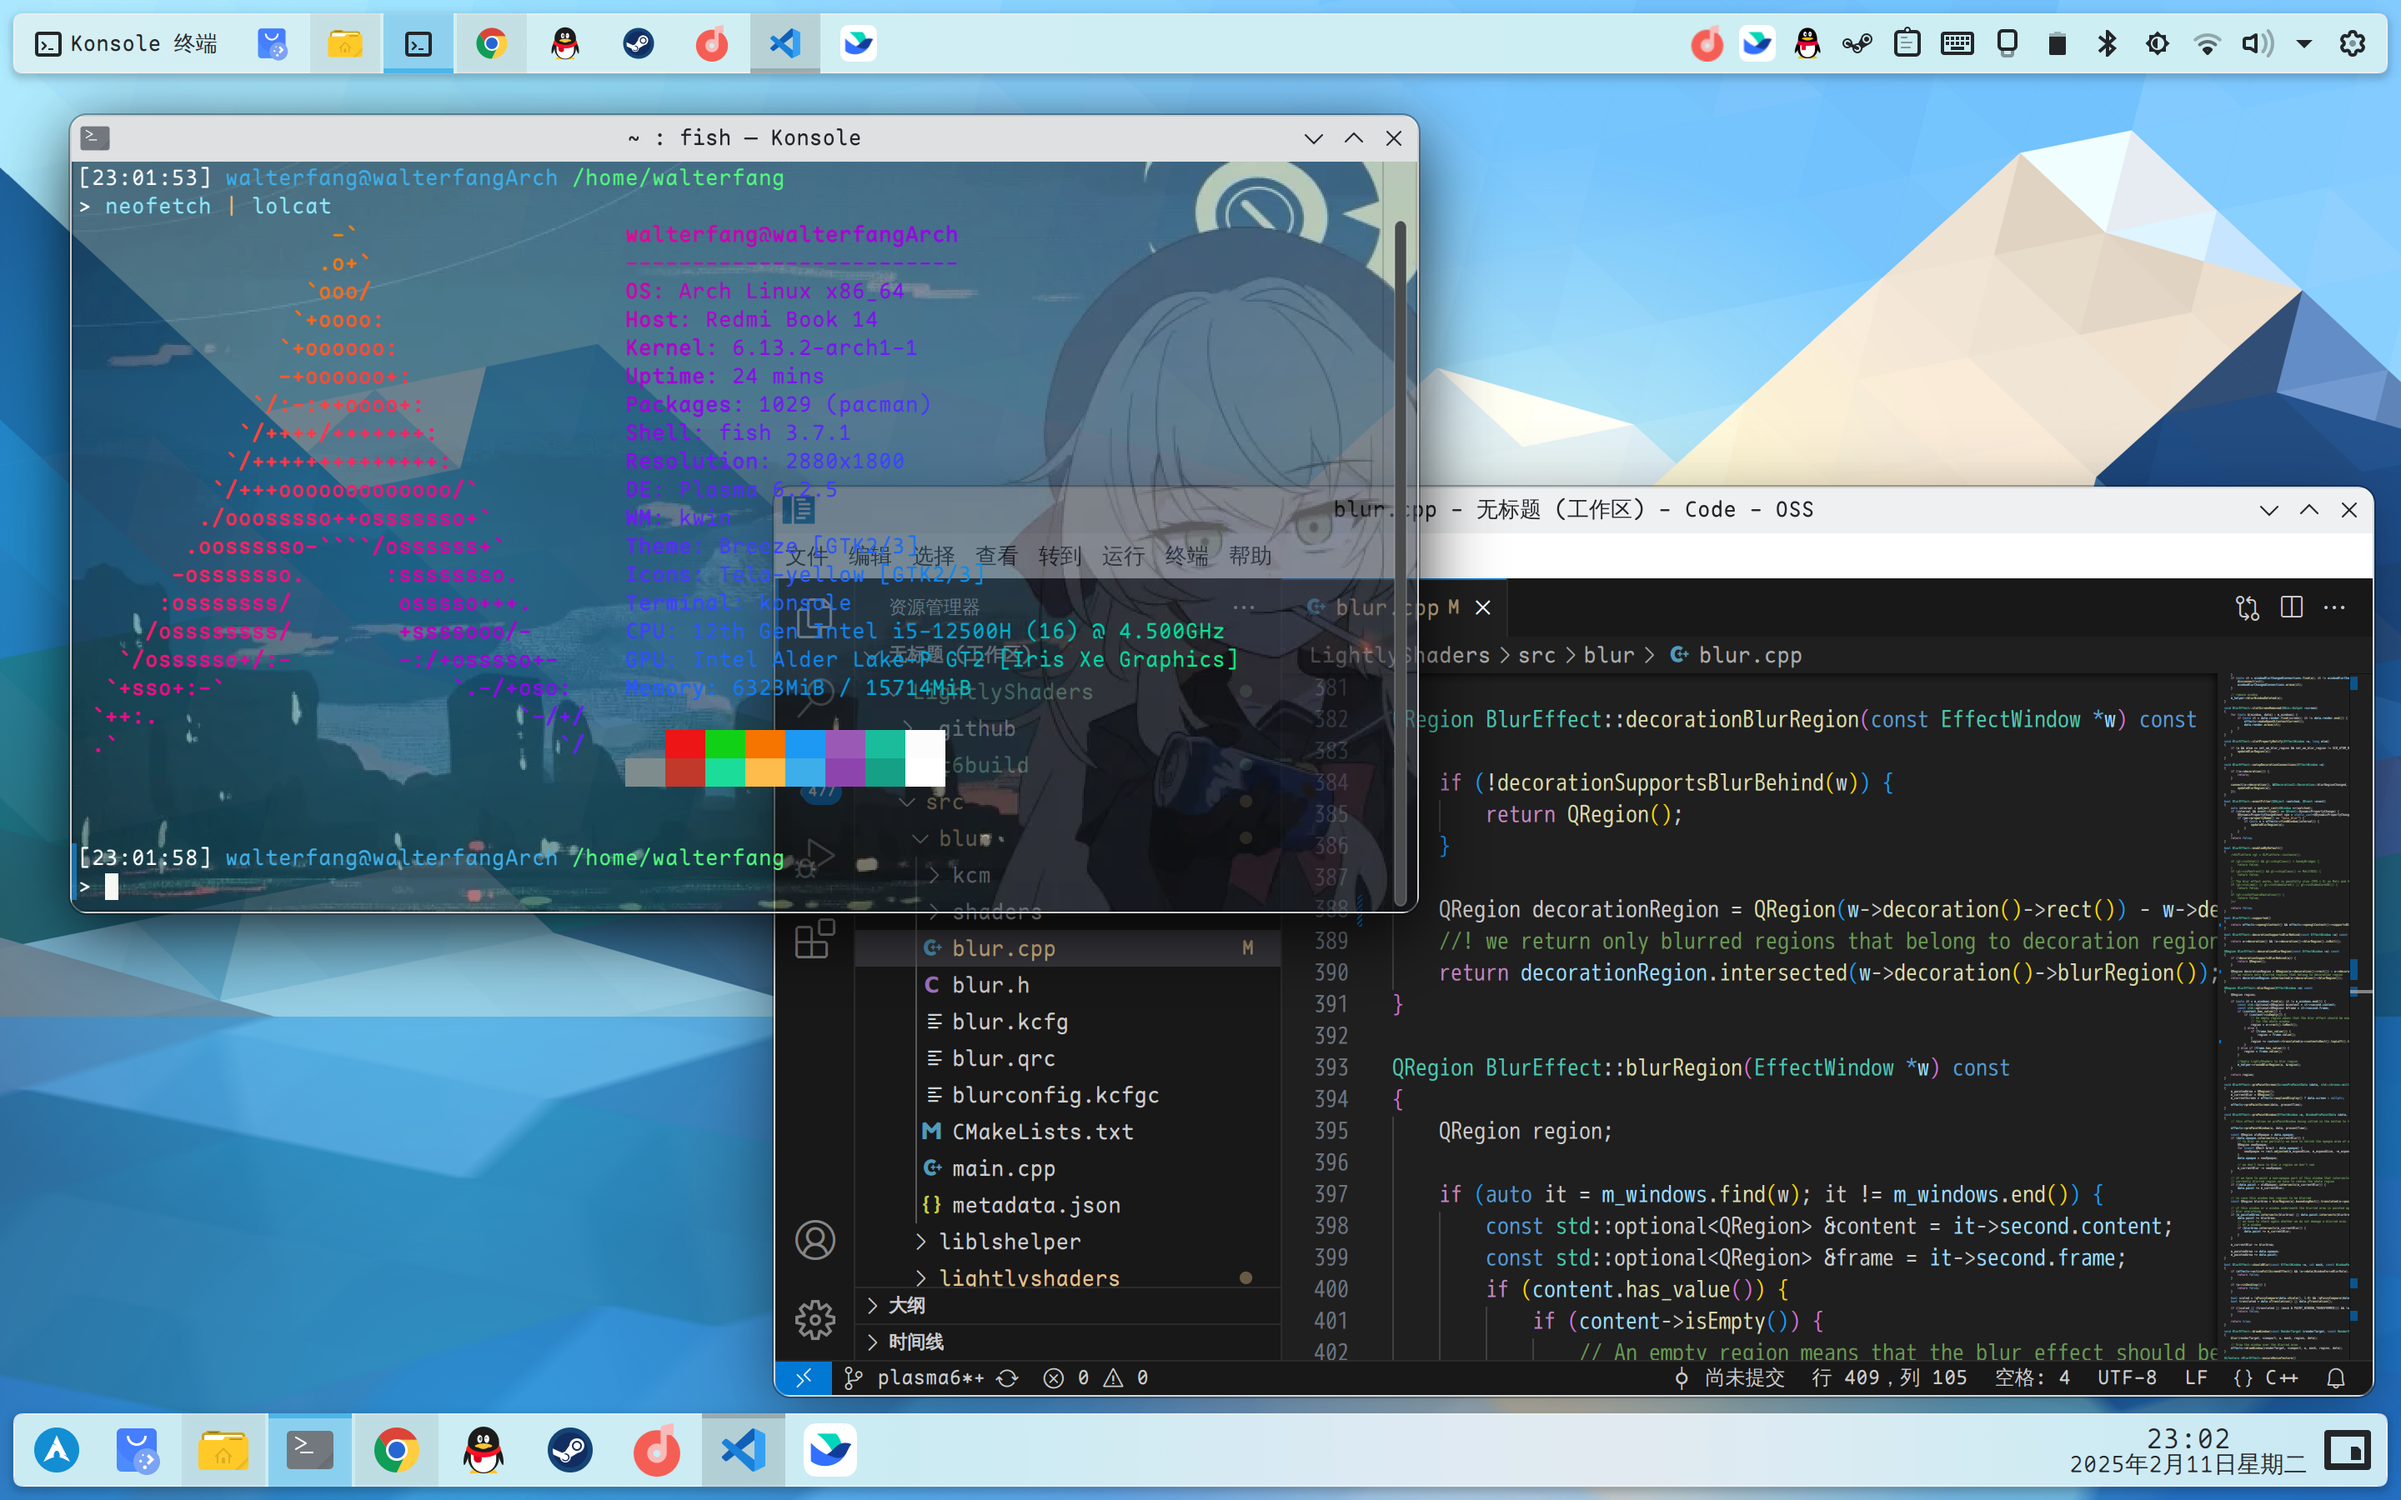
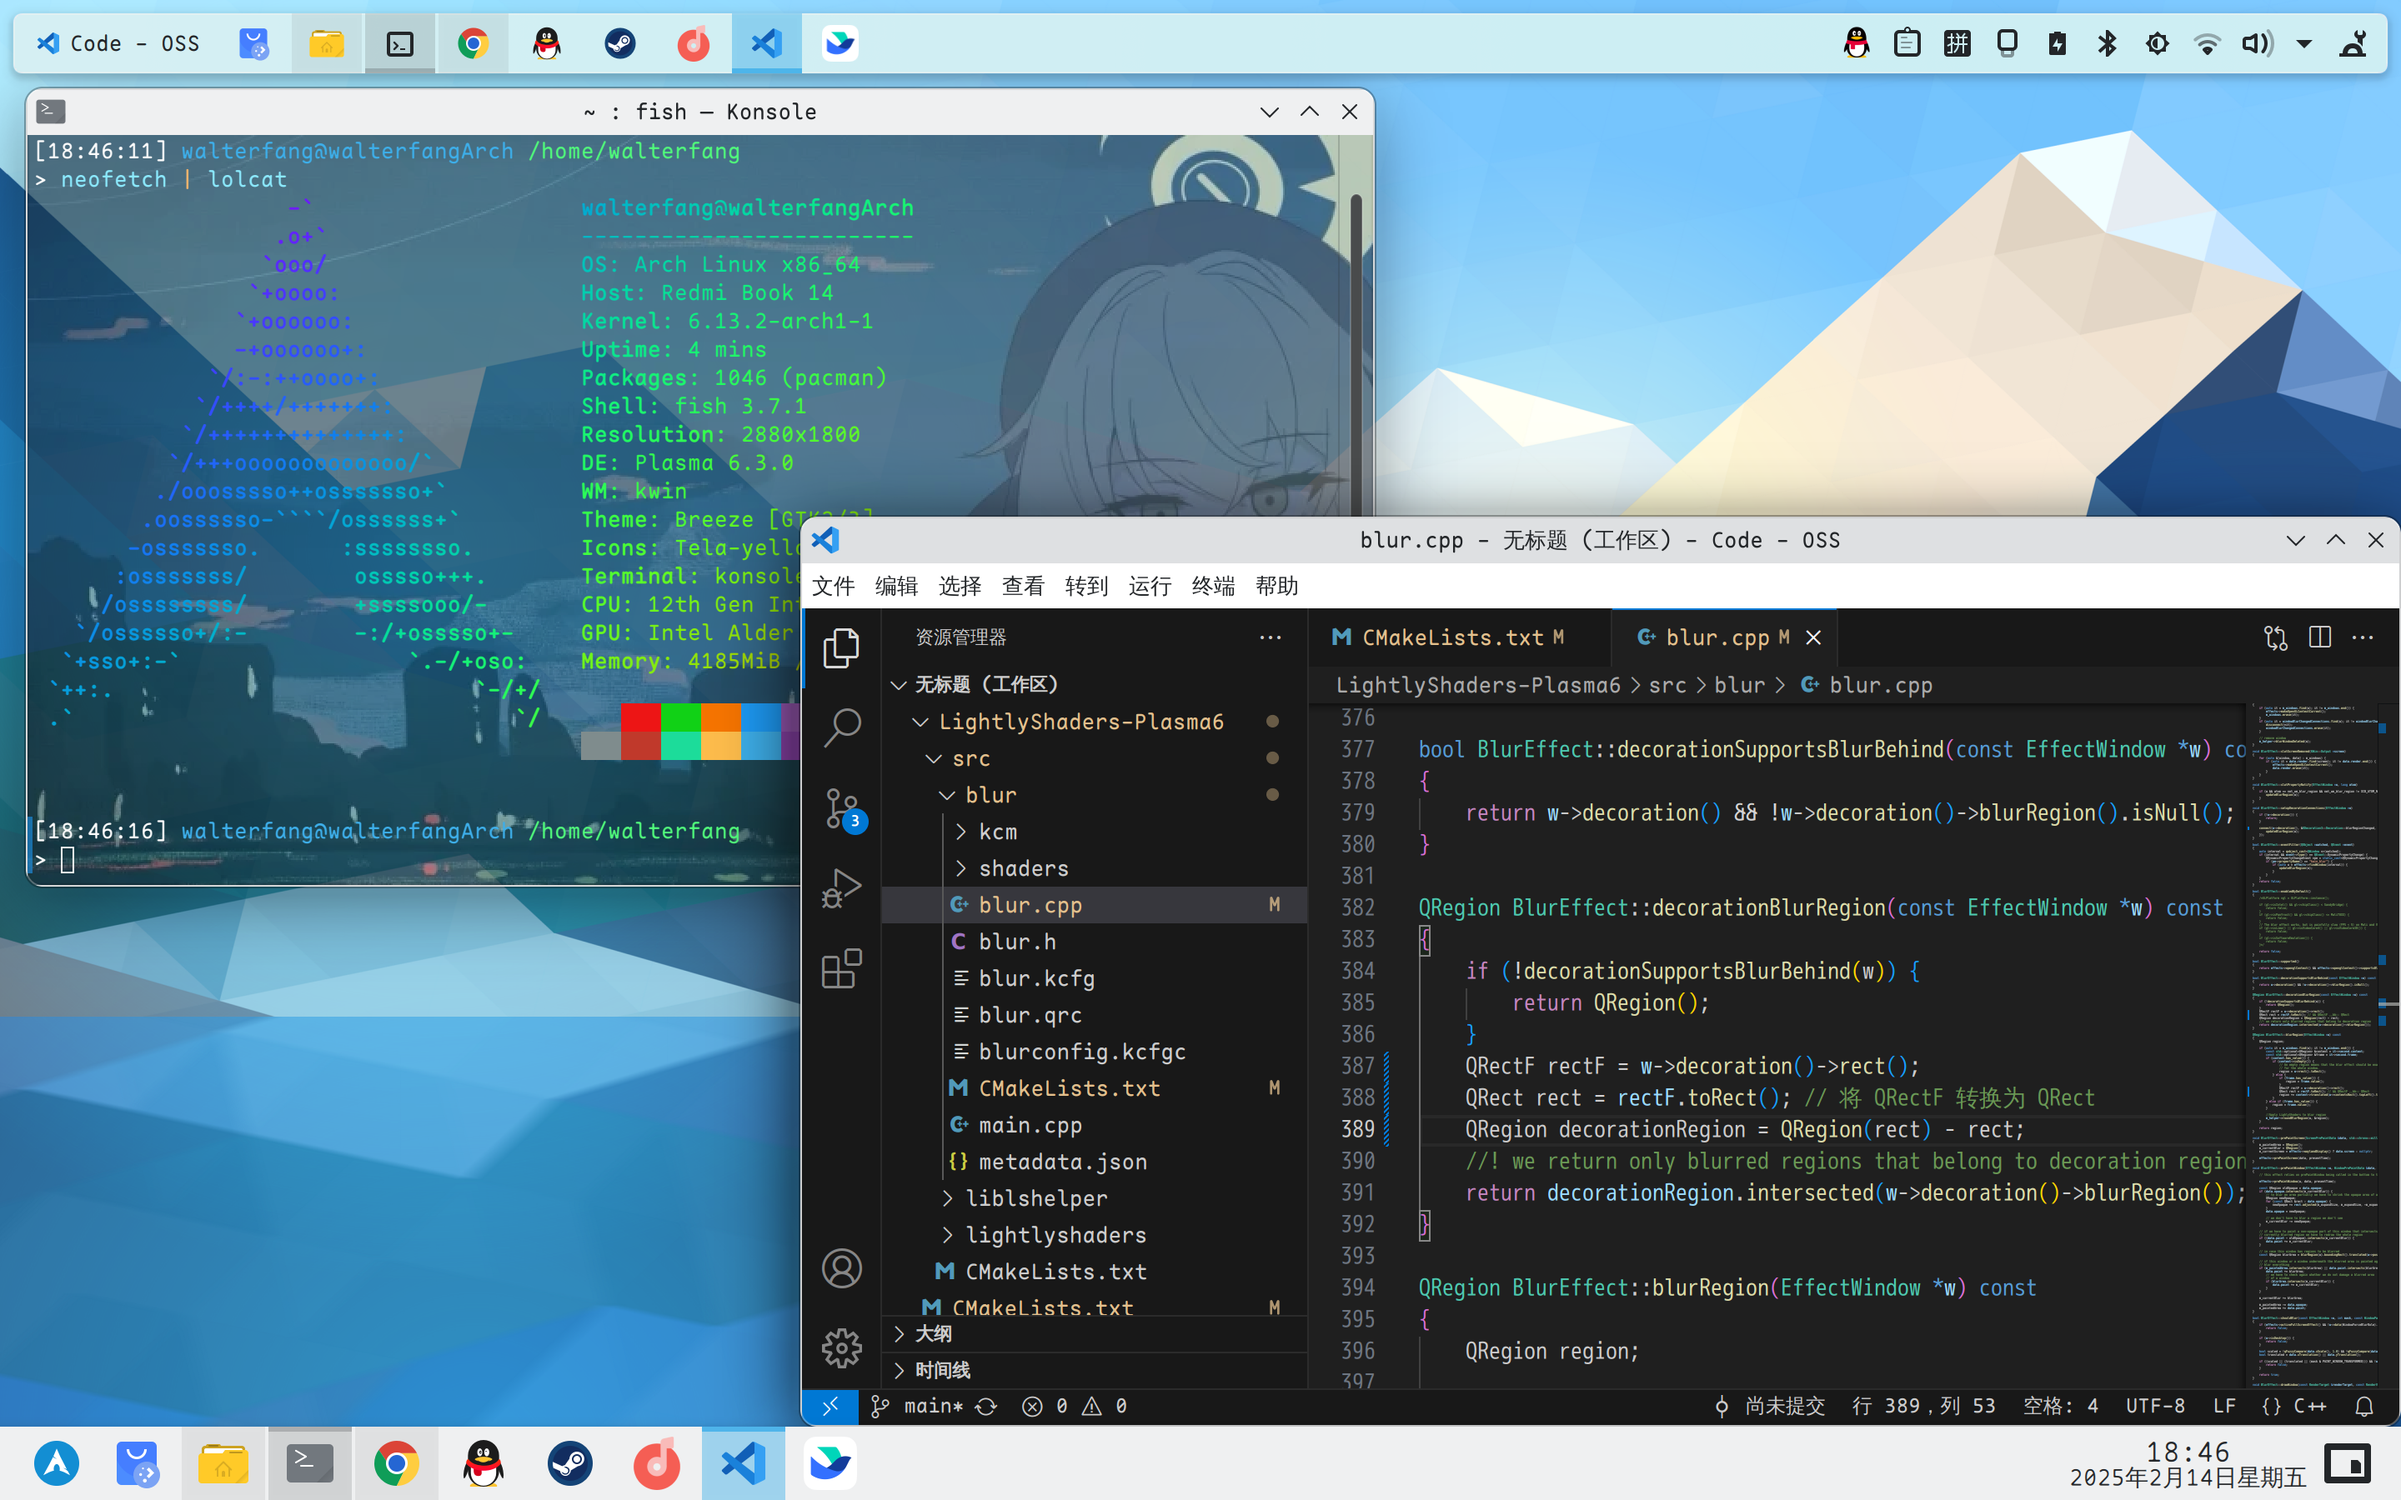
Add files via upload

Changed region(s): [[0.0, 0.0, 1.0, 1.0], [0.6875, 0.0, 0.7812, 0.0622]]

diff --git a/src/blur/blur.cpp b/src/blur/blur.cpp
@@ -31,7 +31,7 @@
 #include <KConfigGroup>
 #include <KSharedConfig>
 
-#include <KDecoration2/Decoration>
+#include <KDecoration3/Decoration>
 
 Q_LOGGING_CATEGORY(KWIN_BLUR, "kwin_effect_blur", QtWarningMsg)
 
@@ -329,7 +329,7 @@ void BlurEffect::setupDecorationConnections(EffectWindow *w)
         return;
     }
 
-    connect(w->decoration(), &KDecoration2::Decoration::blurRegionChanged, this, [this, w]() {
+    connect(w->decoration(), &KDecoration3::Decoration::blurRegionChanged, this, [this, w]() {
         updateBlurRegion(w);
     });
 }
@@ -384,8 +384,9 @@ QRegion BlurEffect::decorationBlurRegion(const EffectWindow *w) const
     if (!decorationSupportsBlurBehind(w)) {
         return QRegion();
     }
-
-    QRegion decorationRegion = QRegion(w->decoration()->rect()) - w->decoration()->rect();
+    QRectF rectF = w->decoration()->rect();
+    QRect rect = rectF.toRect(); // 将 QRectF 转换为 QRect
+    QRegion decorationRegion = QRegion(rect) - rect;
     //! we return only blurred regions that belong to decoration region
     return decorationRegion.intersected(w->decoration()->blurRegion());
 }
@@ -406,7 +407,9 @@ QRegion BlurEffect::blurRegion(EffectWindow *w) const
                 if (frame.has_value()) {
                     region = frame.value();
                 }
-                region += content->translated(w->contentsRect().topLeft().toPoint()) & w->decoration()->rect();
+                QRectF rectF = w->decoration()->rect();
+                QRect rect = rectF.toRect(); // 将 QRectF 转换为 QRect
+                region += content->translated(w->contentsRect().topLeft().toPoint()) & rect;
             }
         } else if (frame.has_value()) {
             region = frame.value();

diff --git a/README.md b/README.md
@@ -1,6 +1,6 @@
 English | [中文](README_zh.md)
 
-## Ensure that versions prior to Plasma 6.2.9 are available, Plasma 6.3 is currently unavailable.
+## ##This branch only supports Plasma 6.3. For users of older versions, please move to the [main branch](https://github.com/walterfang12/LightlyShaders-Plasma6/)
 
 # LightlyShaders v3.0
 

diff --git a/README_zh.md b/README_zh.md
@@ -1,6 +1,6 @@
 [English](README.md) | 中文
 
-## 保证在Plasma 6.2.9之前的版本可用，Plasma 6.3暂不可用。
+## 此分支仅支持Plasma 6.3，旧版本用户请移步[主分支](https://github.com/walterfang12/LightlyShaders-Plasma6/)
 
 # LightlyShaders v3.0
 
